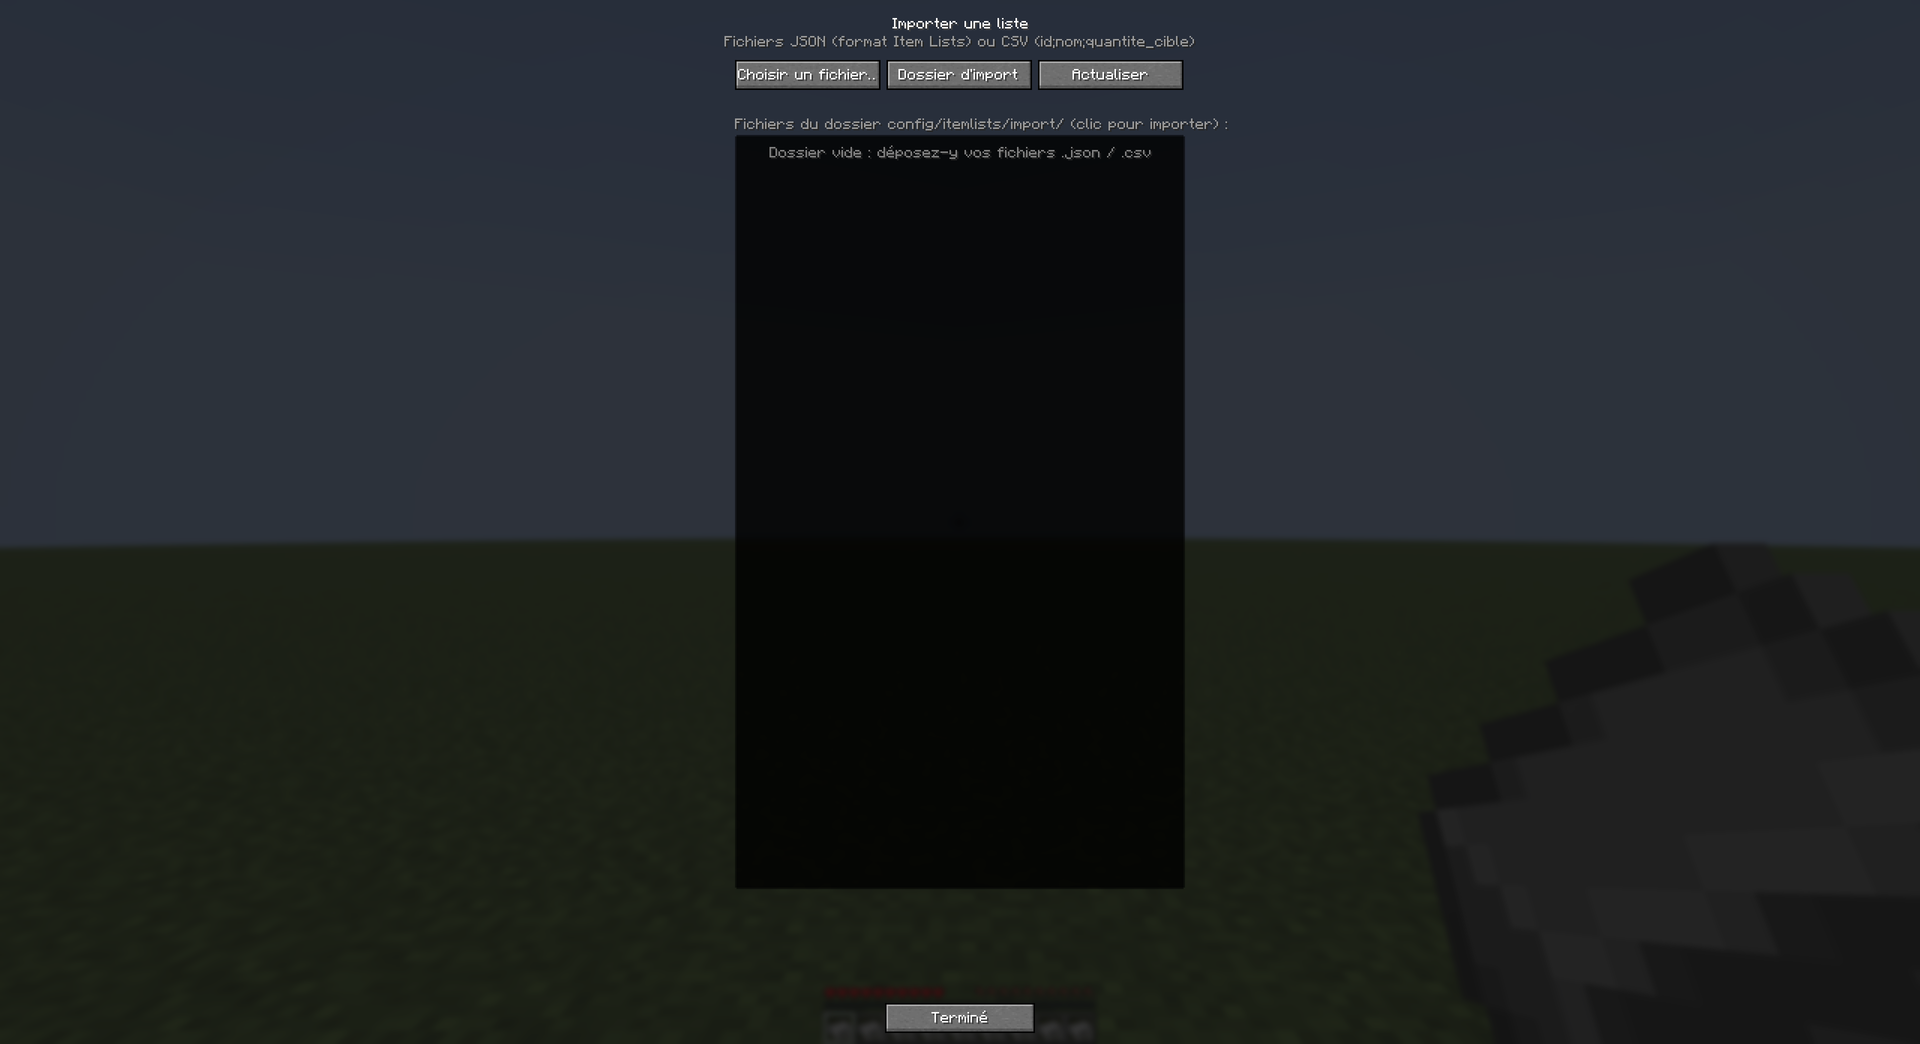
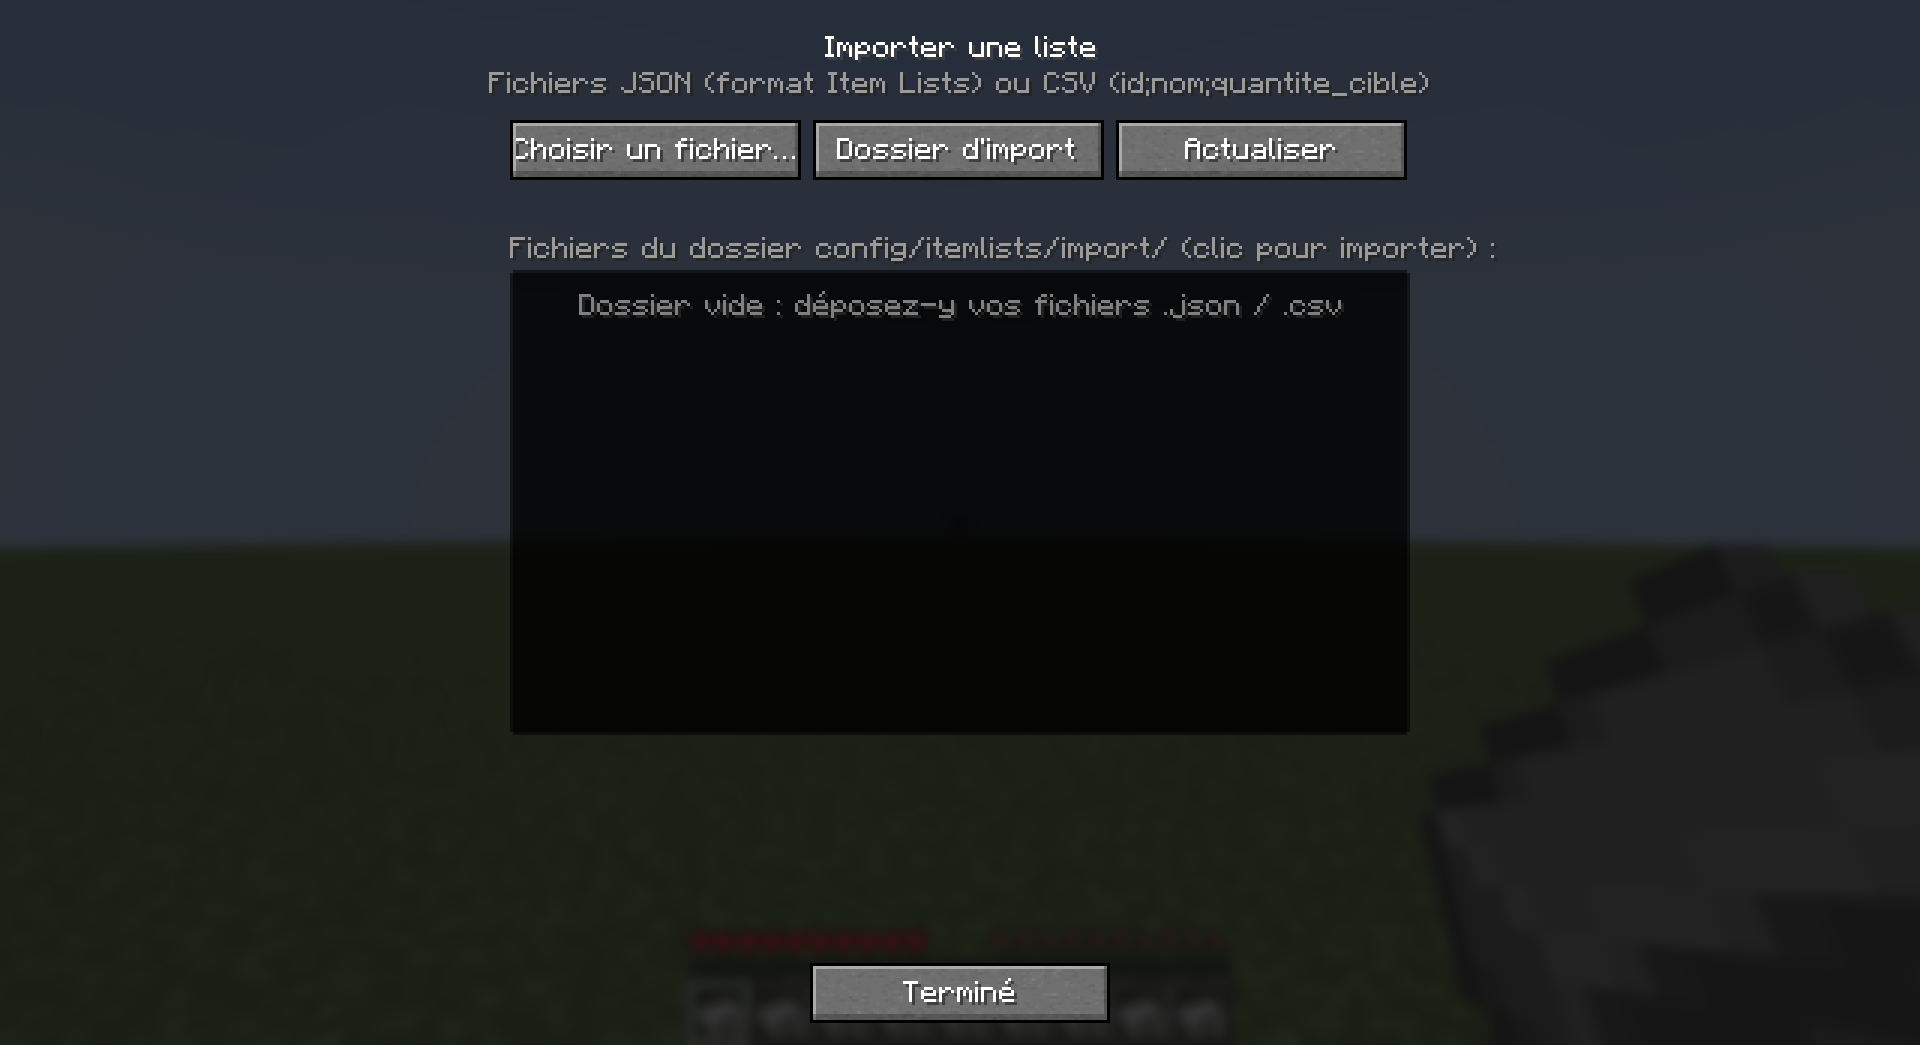
Docs : captures cadrées plus serré (1920x1045, interface à l'échelle 3)
Même échelle d'interface et même panneau que le client de référence
(3840x2089, échelle 3), mais fenêtre deux fois plus petite et sans
réduction : l'interface a la même taille en pixels et occupe deux fois
plus de place dans l'image, lisible sur GitHub.

Changed region(s): [[0.25, 0.0, 0.7812, 0.8582], [0.375, 0.9195, 0.625, 1.0]]

diff --git a/src/gametest/java/com/eldrazy/itemlists/gametest/ItemListsClientGameTest.java b/src/gametest/java/com/eldrazy/itemlists/gametest/ItemListsClientGameTest.java
@@ -32,9 +32,13 @@ import com.eldrazy.itemlists.identity.ItemIdentity;
  * Lancer avec {@code ./gradlew runClientGameTest}.
  */
 public class ItemListsClientGameTest implements FabricClientGameTest {
-	/** Configuration des captures "vitrine" (celle du client de dev de reference). */
-	static final int SHOWCASE_WIDTH = 3840;
-	static final int SHOWCASE_HEIGHT = 2089;
+	/**
+	 * Configuration des captures "vitrine" : echelle d'interface et panneau du client de dev de reference
+	 * (ecran 3840x2089, echelle 3), mais fenetre deux fois plus petite. L'interface garde exactement la meme
+	 * taille en pixels et occupe une plus grande part de l'image (lisible sur GitHub, sans reduction).
+	 */
+	static final int SHOWCASE_WIDTH = 1920;
+	static final int SHOWCASE_HEIGHT = 1045;
 	static final int SHOWCASE_GUI_SCALE = 3;
 	static final com.eldrazy.itemlists.config.ModConfig.PanelSide SHOWCASE_PANEL_SIDE = com.eldrazy.itemlists.config.ModConfig.PanelSide.RIGHT;
 	static final String NEXO_RUBY = "paper[custom_data={PublicBukkitValues:{\"nexo:id\":\"ruby\"}},item_model=\"minecraft:emerald\",custom_name={\"text\":\"Rubis\",\"italic\":false}]";
@@ -196,8 +200,7 @@ public class ItemListsClientGameTest implements FabricClientGameTest {
 			lists.create("Portail de l'End");
 			lists.saveAll();
 		});
-		// Meme configuration que le client de reference : fenetre maximisee 3840x2089, interface a l'echelle 3,
-		// panneau de la liste a droite (les images sont ensuite reduites de moitie pour la doc).
+		// Echelle d'interface et position du panneau du client de reference (voir SHOWCASE_*).
 		context.getInput().resizeWindow(SHOWCASE_WIDTH, SHOWCASE_HEIGHT);
 		context.runOnClient(mc -> {
 			mc.options.guiScale().set(SHOWCASE_GUI_SCALE);
